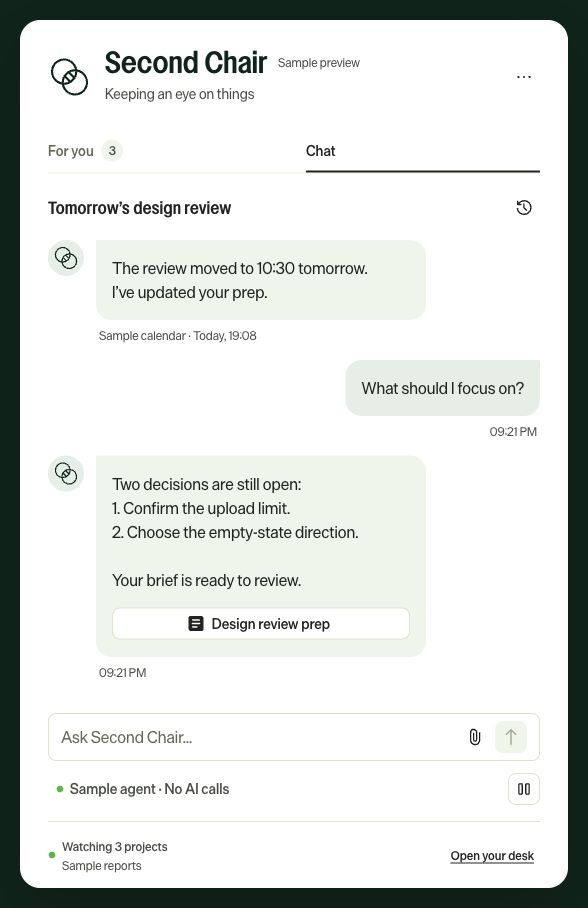
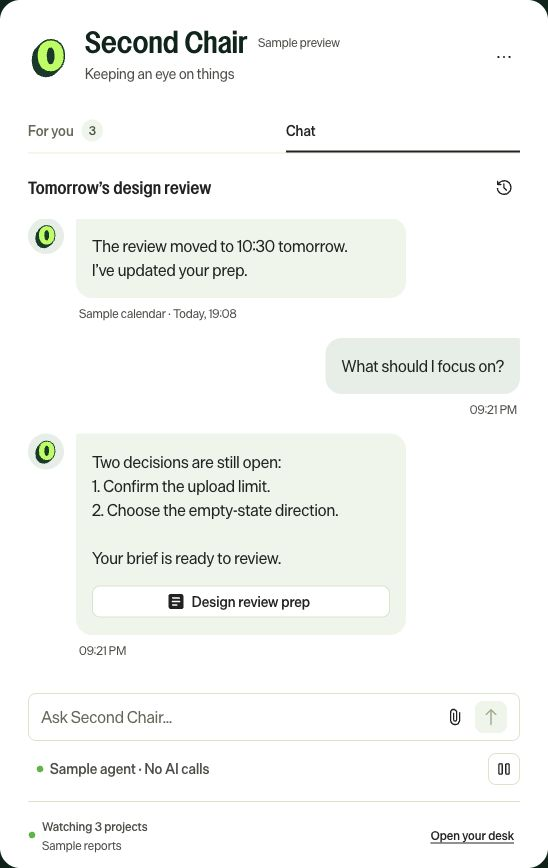
Use official Optimizely O throughout the companion

diff --git a/companion/src/Views.jsx b/companion/src/Views.jsx
@@ -1,5 +1,5 @@
 import { useEffect, useRef, useState } from "react";
-import { Intersect } from "@phosphor-icons/react";
+import { BrandMark } from "./BrandMark.jsx";
 import {
   Button,
   Heading,
@@ -135,7 +135,7 @@ export function Chat({
         {!chat?.messages.length && (
           <div className="chat-empty">
             <div className="avatar">
-              <Intersect size={28} weight="light" />
+              <BrandMark size={28} />
             </div>
             <Heading level="2">What’s on your mind?</Heading>
             <Text color="fg.secondary">
@@ -170,7 +170,7 @@ export function Chat({
           <div key={i} className={`message ${m.role}`}>
             {m.role === "assistant" && (
               <div className="avatar">
-                <Intersect size={26} weight="light" />
+                <BrandMark size={26} />
               </div>
             )}
             <div className="message-body">

diff --git a/companion/src/App.jsx b/companion/src/App.jsx
@@ -1,5 +1,5 @@
 import { useEffect, useRef, useState } from "react";
-import { Intersect } from "@phosphor-icons/react";
+import { BrandMark } from "./BrandMark.jsx";
 import {
   Button,
   Heading,
@@ -135,7 +135,7 @@ export function App() {
     return (
       <main className="stage">
         <section className="panel loading">
-          <Intersect size={38} />
+          <BrandMark size={38} />
           <Heading level="2" asChild>
             <h1>Second Chair</h1>
           </Heading>
@@ -202,7 +202,7 @@ export function App() {
           className="header"
           title={native ? "Drag to move window" : undefined}
         >
-          <Intersect size={43} weight="light" />
+          <BrandMark size={43} />
           <div className="brand">
             <div className="brand-line">
               <Heading level="2" asChild>

diff --git a/companion/src/styles.css b/companion/src/styles.css
@@ -105,7 +105,7 @@ code {
   margin-bottom: 24px;
   flex-shrink: 0;
 }
-.header > svg {
+.header > .brand-mark {
   color: var(--forest);
 }
 .brand {
@@ -642,8 +642,9 @@ footer {
     gap: 10px;
     margin-bottom: 20px;
   }
-  .header > svg {
+  .header > .brand-mark {
     width: 32px;
+    height: 32px;
   }
   .brand h1 {
     white-space: nowrap;
@@ -679,8 +680,9 @@ footer {
   .agent-status {
     font-size: 12px;
   }
-  .header > svg {
-    display: none;
+  .header > .brand-mark {
+    width: 28px;
+    height: 28px;
   }
 }
 @media (prefers-reduced-motion: reduce) {
@@ -753,4 +755,10 @@ footer {
 .native .header [role="button"] {
   -webkit-app-region: no-drag;
   app-region: no-drag;
+}
+
+.brand-mark {
+  display: block;
+  flex-shrink: 0;
+  object-fit: contain;
 }

diff --git a/companion/index.html b/companion/index.html
@@ -3,7 +3,8 @@
   <head>
     <meta charset="UTF-8" />
     <meta name="viewport" content="width=device-width, initial-scale=1.0" />
-    <meta name="theme-color" content="#f1f0ee" />
+    <meta name="theme-color" content="#08251a" />
+    <link rel="icon" type="image/svg+xml" href="/src/assets/optimizely-o.svg" />
     <title>Second Chair</title>
   </head>
   <body>

diff --git a/companion/src/BrandMark.jsx b/companion/src/BrandMark.jsx
@@ -1,0 +1,15 @@
+import mark from "./assets/optimizely-o.svg";
+
+export function BrandMark({ size = 32 }) {
+  return (
+    <img
+      className="brand-mark"
+      src={mark}
+      width={size}
+      height={size}
+      alt=""
+      aria-hidden="true"
+      draggable={false}
+    />
+  );
+}

diff --git a/companion/design-qa.md b/companion/design-qa.md
@@ -13,8 +13,8 @@ serif wordmark; it is an intentional brand change, not a pixel-identical reprodu
 The live website was inspected on October 7, 2026, including its rendered page, computed type,
 font-face URLs, lime `#ABFF44`, and forest `#08251A`. The desk uses its Henrietta display treatment;
 the working app uses Axiom's VC Nudge heading and Die Grotesk body families. The decorative distortion
-of the marketing hero is not appropriate for a working inbox and is omitted. No Optimizely logo or
-claim of official affiliation is included.
+of the marketing hero is not appropriate for a working inbox and is omitted. The Optimizely O was subsequently added at the user’s request; no claim of official affiliation
+is included.
 
 First reading stops: conversation/finding → evidence and source → reply/next action. The single
 white companion is the task surface. The optional desk introduction is subordinate context. Inbox
@@ -42,7 +42,7 @@ before verification. The final build resolves all imports.
 | Text | Heading semantic levels/asChild; Text; semantic color tokens | Wrapped titles, 16px chat body, 12px secondary metadata |
 
 The hidden native file input invokes the OS picker; it is not a replacement for an Axiom text
-control. Phosphor Intersect is retained only as Second Chair's identity mark. Product backgrounds,
+control. The official Optimizely O is the requested identity mark. Product backgrounds,
 text, borders, and states use Axiom tokens; the external desk backdrop and brand typography are the
 user-requested brand treatment. Axiom's switch checked color retains its system semantics.
 
@@ -129,6 +129,22 @@ coordinates pass automated tests. The automation gesture did not change the wind
 physical mouse dragging and tray hide/reopen still need a user/device check. Do not treat the region
 overlay or the unit tests as proof of that gesture. The refreshed native screenshot shows the grip.
 
-The requested Optimizely O at Figma node `7832:27523` remains pending: both design context and
-screenshot requests were denied by Figma access control. No replacement logo was guessed or
-exported. This follow-up does not claim Figma fidelity or re-score the whole screen.
+## Focused identity follow-up
+
+The connected Figma account still reports guest/view access to Optimizely, and design context and
+screenshot calls for node `7832:27523` were denied. To fulfill the renewed request for the O, the
+app uses the official SVG from Optimizely's public website, stored unchanged. This is not a claim
+of Figma fidelity. Source provenance and checksum are in NOTICE.md.
+
+The app/tray icon, header, loading mark, chat avatars, empty-chat mark, and favicon share that source.
+The native tray is a full-color non-template image: turning this filled two-color mark into an alpha
+mask would lose the O's interior. Generated app (1024px) and tray (22/44px) images were inspected.
+The native app was relaunched with the new files; its header and avatars were visually verified at
+548 × 868. The automation tool could not capture the system menu bar, so no menu-bar screenshot is
+claimed. The browser desk was inspected at 1487 × 1058 and the default 1280 × 720. Native/full/narrow
+headers use 32/43/28px image boxes respectively with preserved proportions. Narrow 390/391 × 844
+views retain the O and have no horizontal overflow. Empty chat and populated chat avatars load the
+same asset at their 28/26px sizes. Header menus and navigation remain operable.
+
+All four documentation screenshots were refreshed from the running app using synthetic data. This
+is a focused identity check, not a new full-screen score or a physical drag confirmation.

diff --git a/docs/companion.md b/docs/companion.md
@@ -3,6 +3,13 @@
 The companion gives the skill somewhere visible to deliver its work: a quiet Mac menu-bar window,
 an alert inbox, and a local chat desk. You can try it with sample data before connecting anything.
 
+## Packaged Intel Mac preview
+
+[Download Second Chair 0.3.0](https://github.com/davidoliversteinberg/second-chair/releases/tag/v0.3.0).
+The ZIP contains **Second Chair.app** and includes its runtime. This download is Intel/x64 only,
+unsigned, and unnotarized; Apple silicon builds are not included in this release. For source builds
+or report/chat setup, follow the sections below.
+
 ## Try it from source
 
 Requires Node.js 22 or newer and npm. The browser desk works without Electron; native notifications
@@ -11,8 +18,6 @@ and the tray require the desktop app. Mac is the packaging target in this previe
 ```bash
 git clone https://github.com/davidoliversteinberg/second-chair.git
 cd second-chair
-# Until the preview PR is merged, use its implementation branch:
-git switch codex/local-companion-v0.3
 cd companion
 npm ci
 npm run build
@@ -31,7 +36,7 @@ npm run desktop:demo
 ```
 
 If npm disabled Electron's install script, run `node node_modules/electron/install.js` once.
-Click the menu-bar icon to show/hide the window. **Drag the small grip at the very top or the
+Click the green **O** in the menu bar to show/hide the window. **Drag the small grip at the very top or the
 Second Chair title area to move it.** The app saves the position and size, including across restarts
 in normal mode. Sample mode starts with a fresh temporary profile each launch.
 Right-click the menu-bar icon for **Move window back to menu bar**, the browser desk, and Quit.
@@ -209,6 +214,8 @@ See [architecture and test scope](architecture.md) for what has been verified an
 untested. A sample chat screenshot is not evidence of a live Claude connection.
 
 ## Optimizely design
+
+The app icon, menu-bar icon, header, chat avatars, and favicon use the official Optimizely O from the public website. The original SVG is bundled locally; no logo is fetched at runtime. See [asset provenance](../companion/NOTICE.md). After updating, quit and reopen the app to refresh its menu-bar icon; a Mac restart is normally unnecessary.
 
 The companion follows the [frontend-designer skill](https://github.com/davidoliversteinberg/frontend-designer/blob/main/skills/frontend-designer/SKILL.md) and the current [Optimizely website](https://www.optimizely.com/): forest green, lime accents, Die Grotesk body text, VC Nudge product headings, and Henrietta display type in the expanded desk. Axiom supplies the controls and their interaction states. Bright green is used for primary actions; tabs and filters remain neutral. This is a community companion, not an official Optimizely product.
 

diff --git a/companion/AGENTS.md b/companion/AGENTS.md
@@ -12,8 +12,10 @@ Build app UI in `src/`. Keep `.openai/hosting.json`, `worker/index.js`, `scripts
 
 The user explicitly requested the `frontend-designer` skill and a visual identity matching Optimizely.com. Preserve the compact tray companion, Chat / For you model, and optional expanded desk. Use verified Axiom controls and semantic tokens, Die Grotesk body text, VC Nudge product headings, and the live site's forest/lime palette; the expanded desk may use Henrietta display type. This direction supersedes the original mock's gray background and serif wordmark. Keep sample and unconfigured states truthful. Do not turn local report monitoring into a claim of direct Teams access.
 
-The user wants the Optimizely “O” from Figma file `tTfVt7im2cBdVBmnorJ1rl`, node `7832:27523`,
-in the main identity/navigation and Mac menu bar. Fetch that node or an exact supplied export before
-replacing the temporary Intersect mark. Figma access was denied during the window-placement update;
-the requested logo is pending, not implemented. Keep the top window area draggable and preserve
-the user’s chosen window placement.
+Use the official Optimizely “O” for the app icon, Mac menu-bar icon, header, chat avatars, and
+favicon. The source `src/assets/optimizely-o.svg` is the unchanged public asset from
+`https://www.optimizely.com/favicon/favicon.svg`; build all raster sizes from it. Keep the two-color
+menu-bar icon non-template so macOS does not flatten the filled center into a solid silhouette.
+The originally supplied Figma node (`tTfVt7im2cBdVBmnorJ1rl`, `7832:27523`) remains inaccessible to
+the connected guest account; do not describe the public asset as a Figma export or a verified node
+match. Keep the top window area draggable and preserve the user’s chosen window placement.

diff --git a/companion/NOTICE.md b/companion/NOTICE.md
@@ -2,9 +2,17 @@
 
 Second Chair code is MIT licensed. Dependencies retain their own licenses.
 
-The tray and Second Chair identity mark use [Phosphor Icons](https://github.com/phosphor-icons), MIT licensed, by Phosphor
-Icons. The tray raster is generated from the library's Intersect icon; it is not a new proprietary
-logo. React, Vite, Electron, and their dependencies retain their package license notices.
+The app, tray, favicon, and companion identity use the official Optimizely O from
+[Optimizely's public favicon](https://www.optimizely.com/favicon/favicon.svg), retrieved October 7,
+2026. The original SVG is stored unchanged in `src/assets/optimizely-o.svg`; PNG app/tray sizes are
[1 lines of base64/hex data omitted]
+The requested Figma node could not be read by the connected guest account, so this is the public
+brand asset, not a claimed export or verified match of that node.
+
+Optimizely is a trademark or registered trademark of Optimizely North America Inc. or its related
+entities. The logo is not covered by this project's MIT license. Second Chair is a community project;
+use of the requested brand mark does not imply official endorsement. React, Vite, Electron, and
+their dependencies retain their package license notices.
 
 The Claude Agent SDK and its bundled executable are provided by Anthropic under the terms in that
 package's README/license. This project's MIT license does not relicense them. Users bring their own

diff --git a/README.md b/README.md
@@ -30,11 +30,13 @@ own conversation history. The original plugin still works without the companion.
 | Source timestamps and partial/error coverage | A folder check is not a fresh Teams scan |
 | Browser desk and Mac app packaging | Developer preview; unsigned Mac build, no automatic updates |
 
-The companion uses Optimizely’s Axiom controls and current website palette and typography, following the [frontend-designer skill](https://github.com/davidoliversteinberg/frontend-designer).
+The companion uses the official Optimizely O icon, Axiom controls, and current website palette and typography, following the [frontend-designer skill](https://github.com/davidoliversteinberg/frontend-designer).
 
 <table><tr><td><img src="docs/screenshots/chat.jpg" alt="Running companion with chat and sample data" width="400"></td><td><img src="docs/screenshots/inbox.jpg" alt="Running companion alert inbox with sample data" width="400"></td></tr></table>
 
 *Screenshots of the running app with synthetic sample data. Sample chat makes no AI calls.*
+
+**[Download the Intel Mac preview](https://github.com/davidoliversteinberg/second-chair/releases/tag/v0.3.0)** — unsigned developer build; see setup requirements below.
 
 **[Install and use the companion](docs/companion.md)** · **[How it works](docs/architecture.md)** ·
 **[Release notes](CHANGELOG.md)**

diff --git a/CHANGELOG.md b/CHANGELOG.md
@@ -3,6 +3,8 @@
 ## 0.3.0 — Local companion preview
 
 - Use the frontend-designer skill, verified Axiom controls, and Optimizely website branding.
+- Use the official Optimizely O in the app/menu-bar icons, header, chat avatars, and favicon.
+  Bundle the public source SVG and document its provenance; preserve its colors in the Mac menu bar.
 - Add an optional Mac tray app and localhost desk with For you, Chat, and Recent chats.
 - Add a visible native drag handle, saved window position/size, and a menu-bar reset action.
   Fit restored windows inside the available display after monitor changes.
